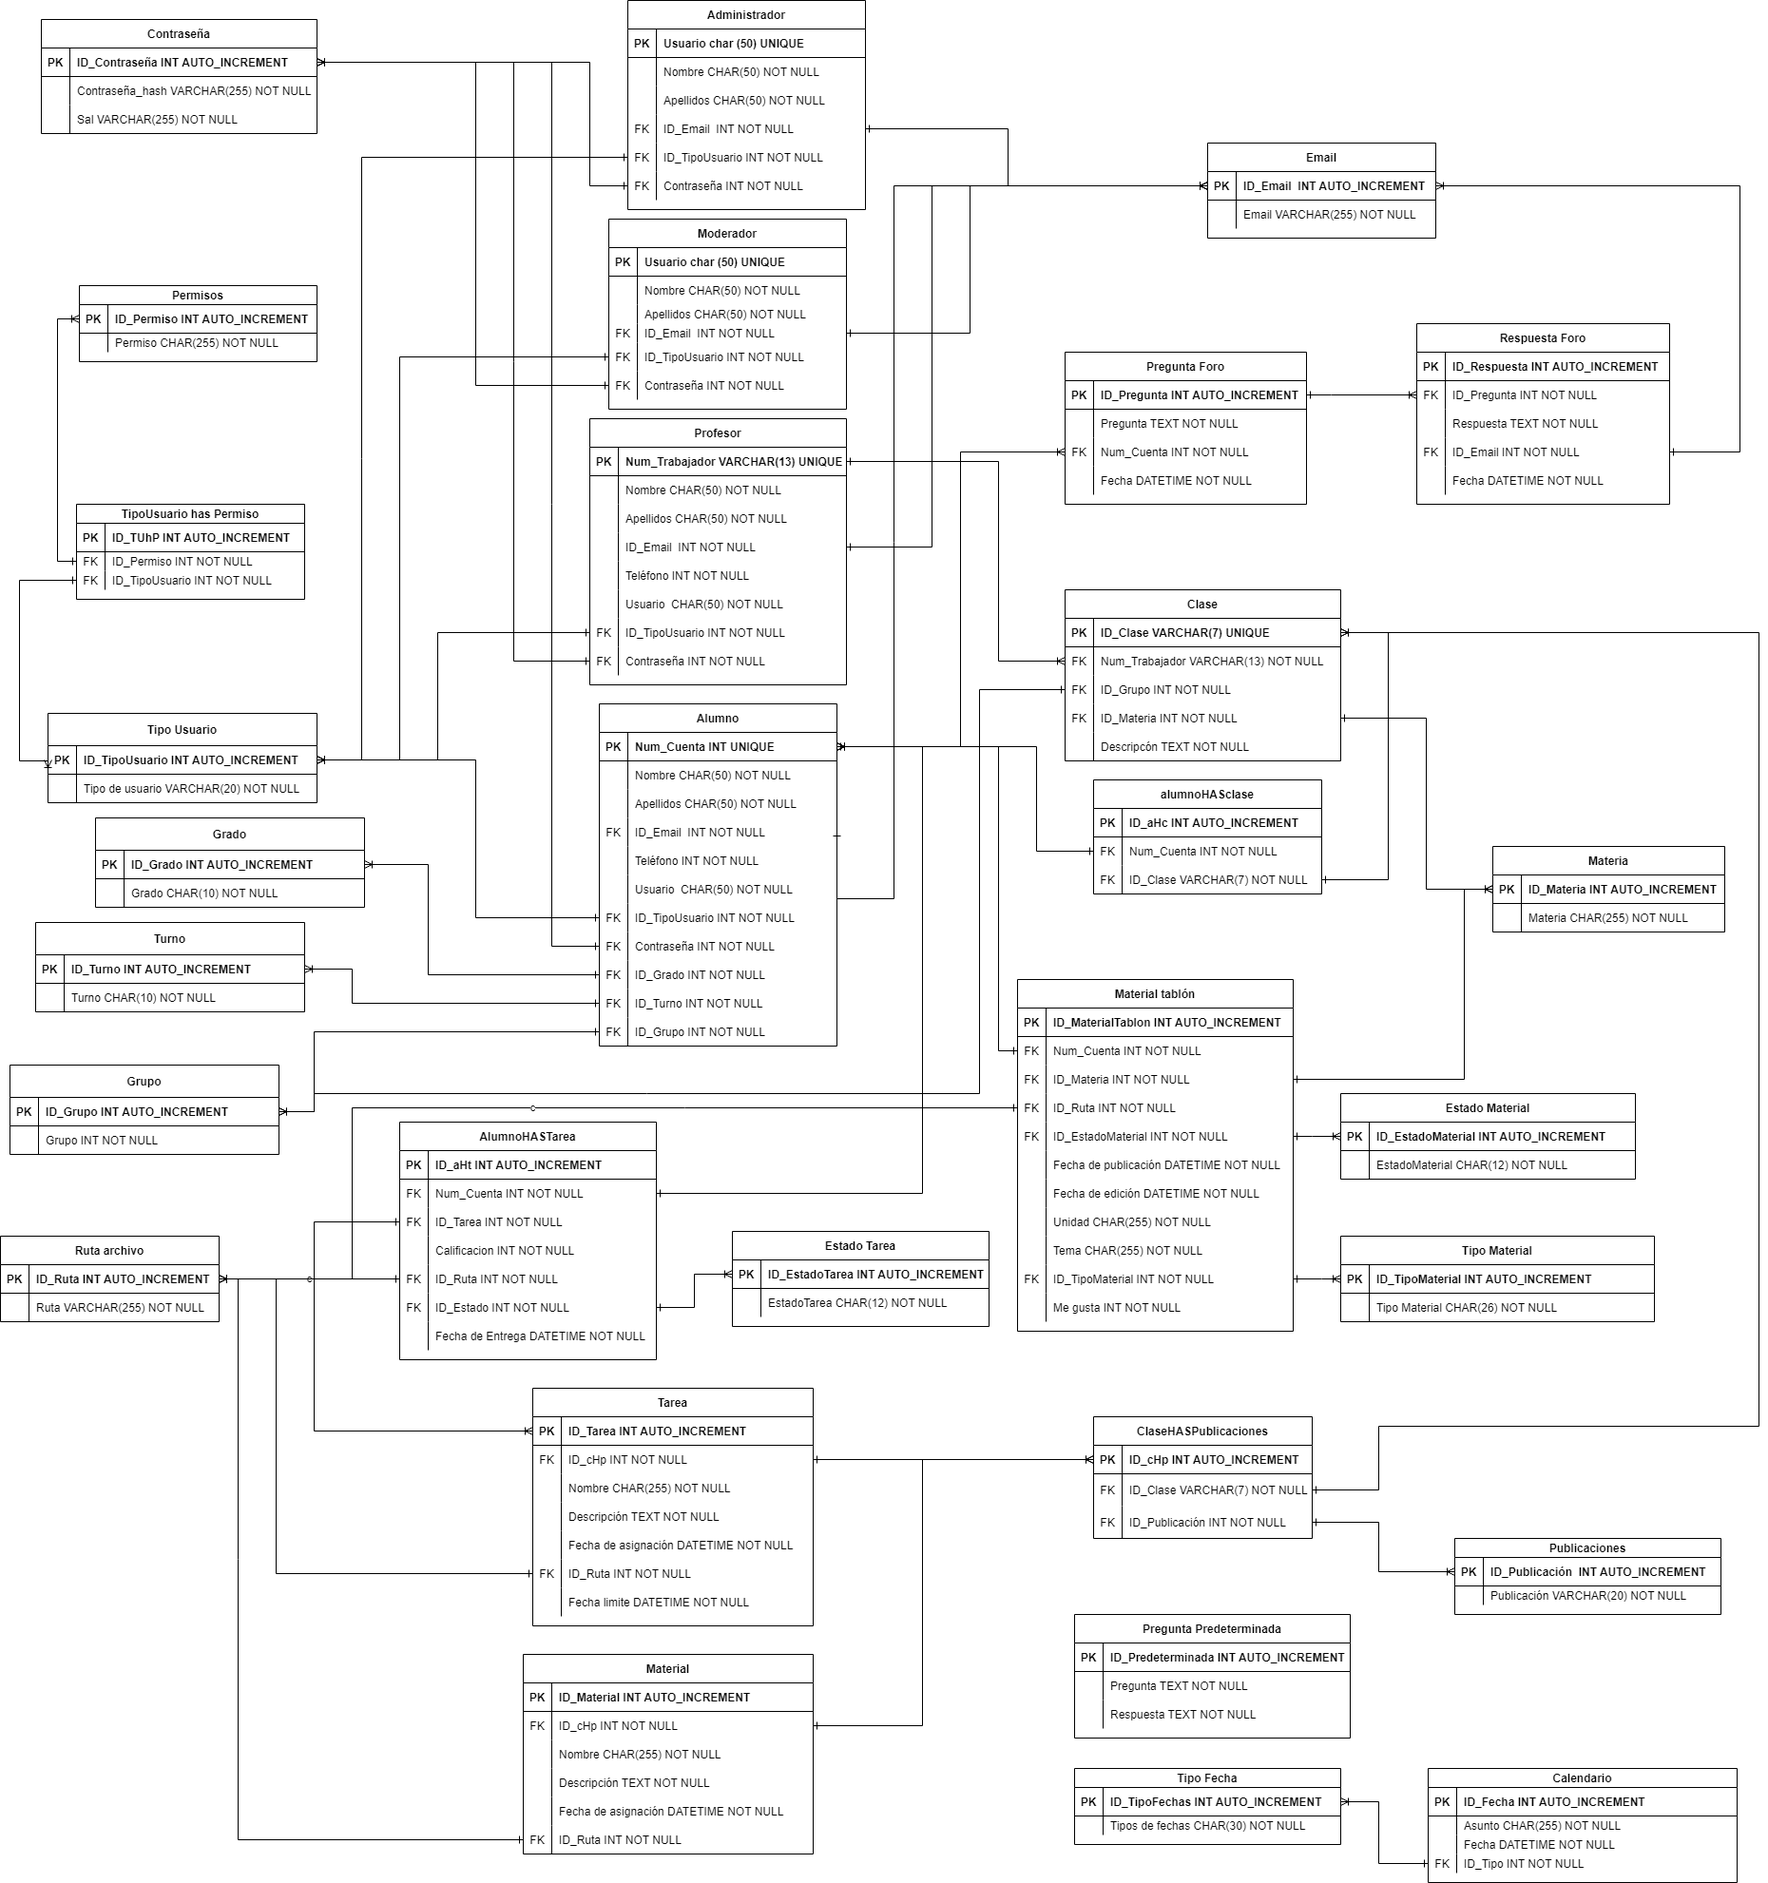
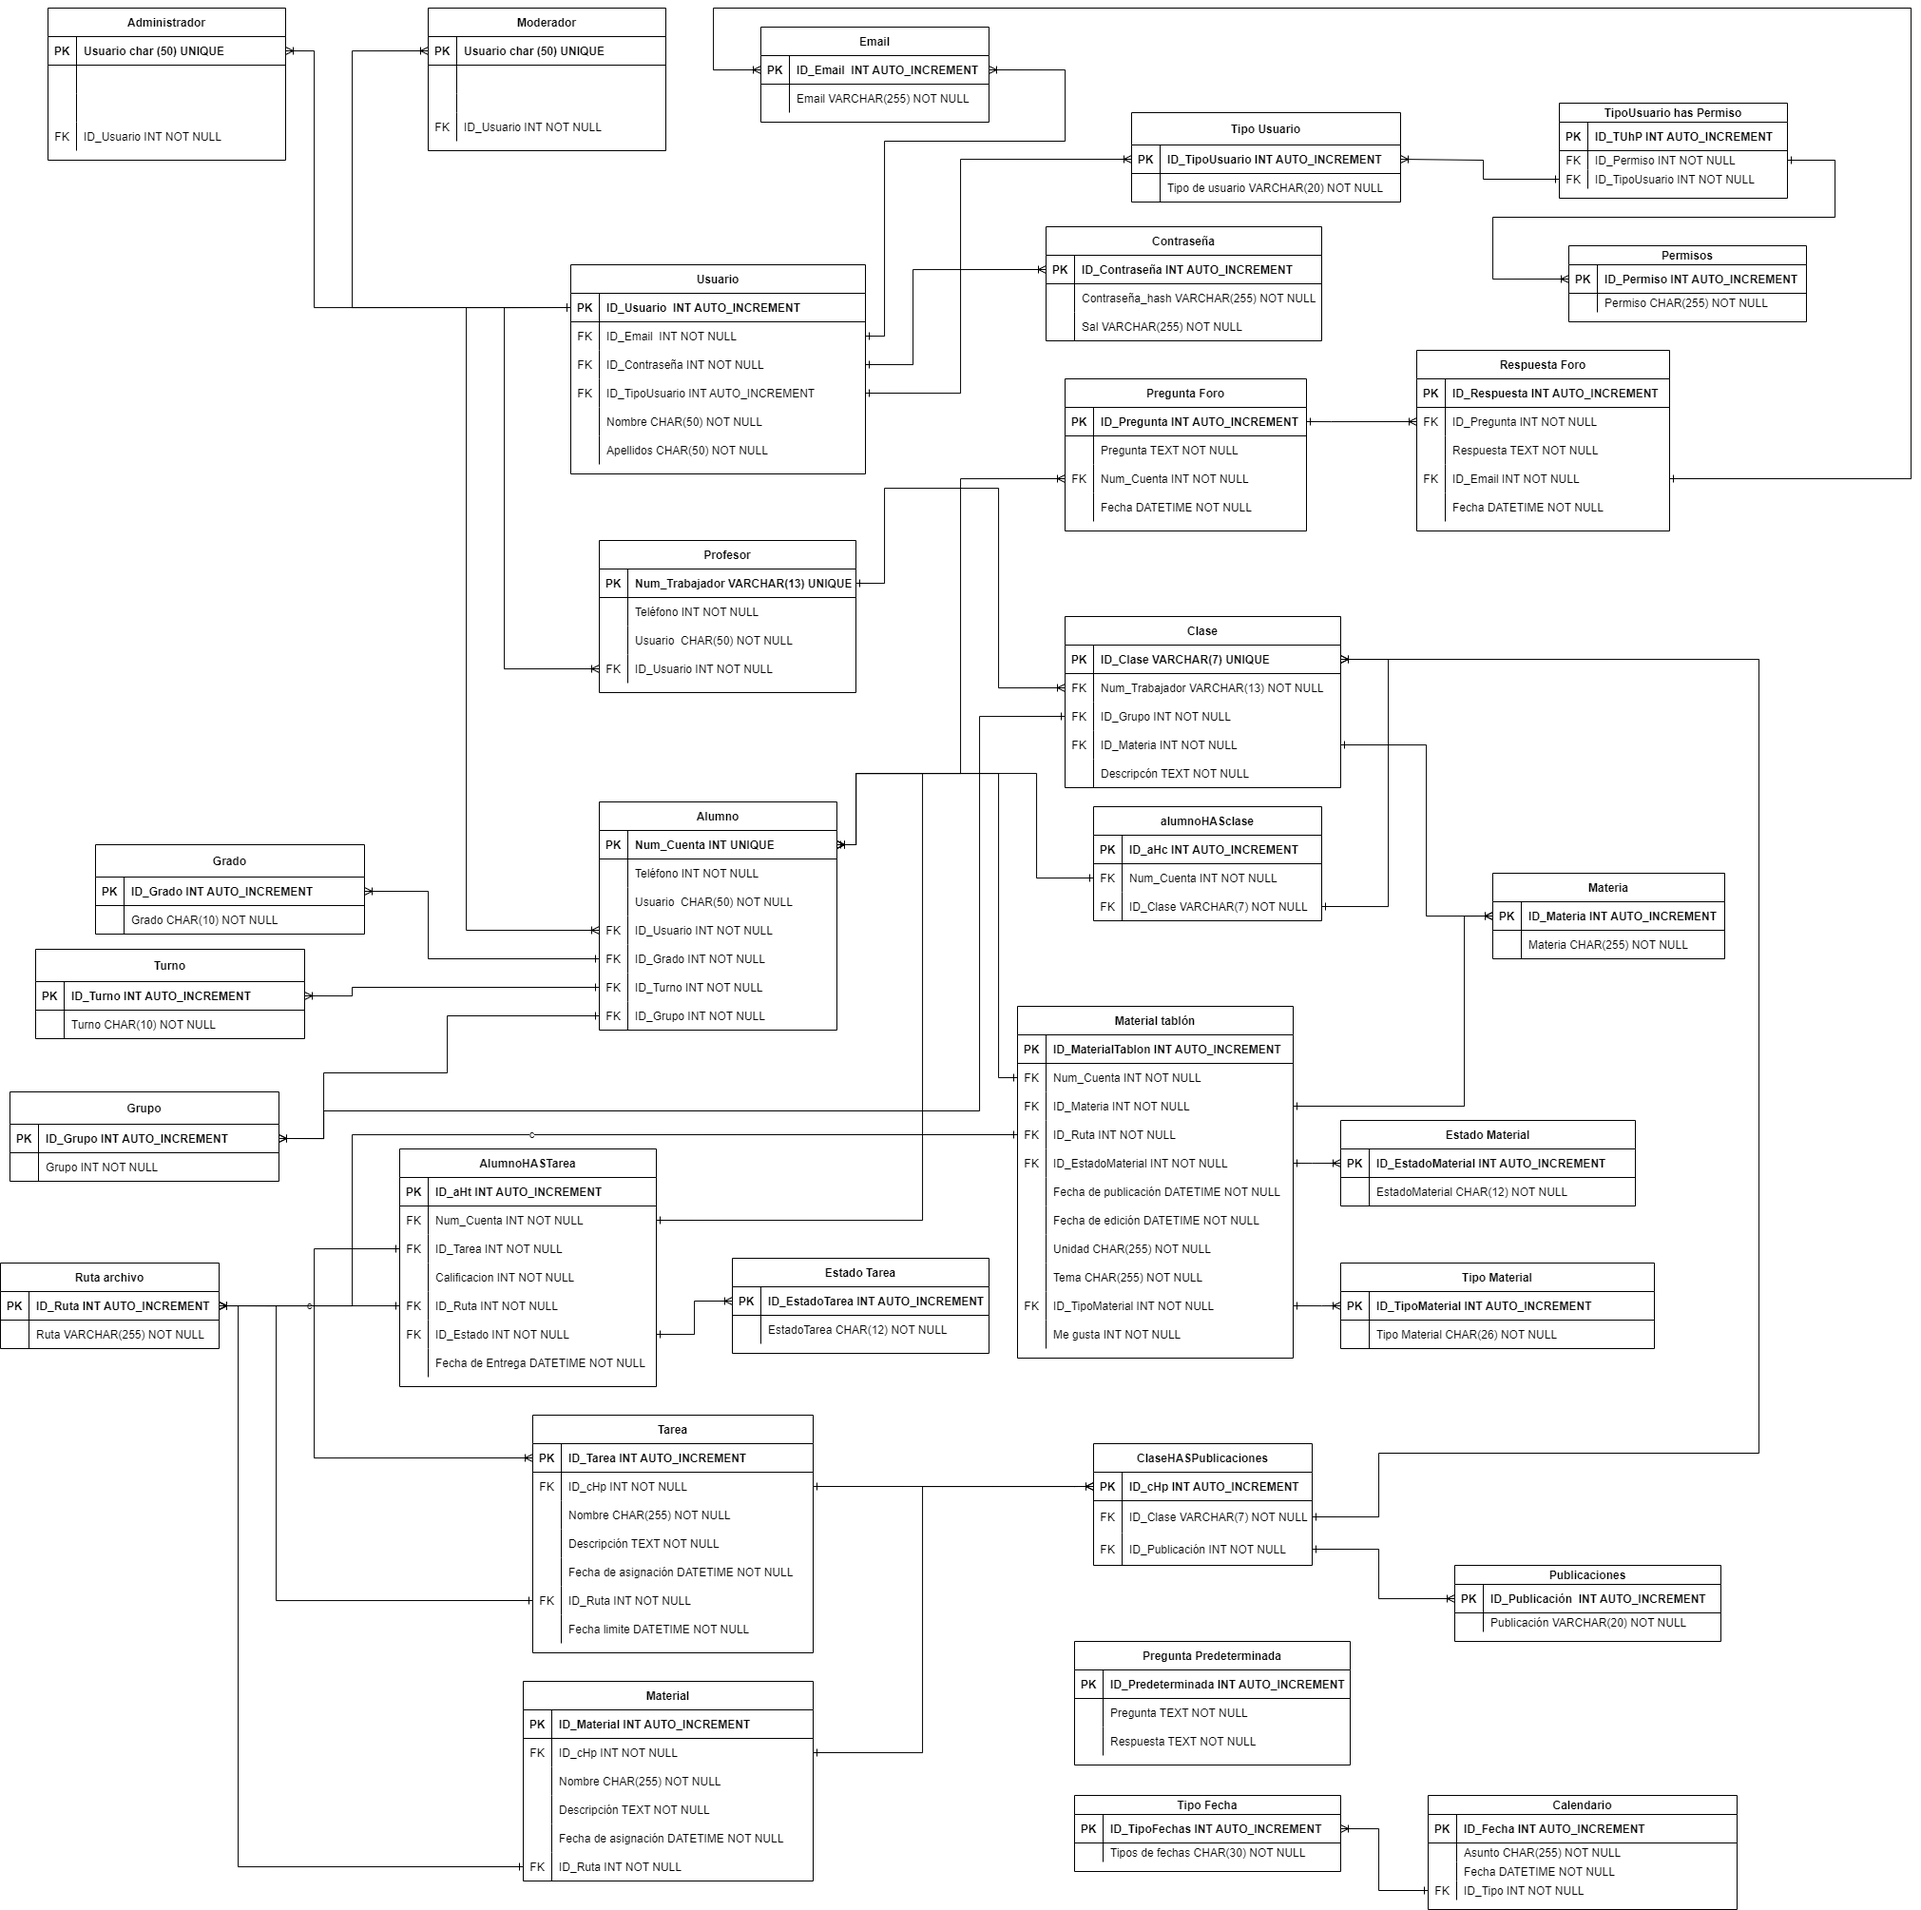
fix: Cambiando base de datos

diff --git a/FormularioInicioSesion.html b/FormularioInicioSesion.html
@@ -1,42 +1,44 @@
 <!DOCTYPE html>
 <html lang="en">
+
     <head>
         <meta charset="UTF-8">
         <meta http-equiv="X-UA-Compatible" content="IE=edge">
         <meta name="viewport" content="width=device-width, initial-scale=1.0">
+        <title>Inicio de Sesión</title>
         <!--stylesheets-->
-        <link rel="stylesheet" href="./statics/styles/main.css">
-        <link rel="stylesheet" href="./statics/styles/formularioInicio.css">
-        
-        <title>Formulario Inicio de Sesion</title>
+        <!-- <link rel="stylesheet" href="./statics/styles/main.css">
+        <link rel="stylesheet" href="./statics/styles/formularioInicio.css"> -->
     </head>
-    <body>
-        <header>
 
-        </header>
+    <body>
+        <header></header>
 
         <div class="contenido">
             <div class="form">
-                <form action="./dynamics/php/FormularioInicioSesion.php" method="post">
+                <form id="formInicio" method="post">
                     <fieldset>
-                       <strong><h2>¿Qué tal Coyo-amigo?</h2></strong>
+                        <strong><h2>¿Qué tal Coyo-amigo?</h2></strong>
                         <h3>Iniciar sesión</h3>
 
                         <label for="correo"></label>
-                        <input type="email" name="correo" required placeholder="Correo"> <br><br>
+                        <input type="email" name="correo" id="correo" required placeholder="Correo"> <br><br>
 
-                        <label for="contraseña"></label>
-                        <input type="text" name="contraseña" required placeholder="Contraseña"> <br><br>
+                        <label for="contrasena"></label>
+                        <input type="text" name="contrasena" id="contrasena" required placeholder="Contraseña"> <br><br>
 
-                        <a href="http://localhost/ProyectoSemana1/IntentoContrase%C3%B1a.php">¿Olvidaste tu contraseña o nombre de usuario?</a> <br><br>
-                        <button type="submit">Continuar</button>
+                        <a href="./dynamics/php/IntentoContraseña.php">¿Olvidaste tu contraseña o nombre de usuario?</a> <br><br>
+                        
+                        <button type="submit" id="btn-inicio">Iniciar sesión</button><br><br>
+
+                        <a href="./templates/FormularioRegistro.html" target="_self" style="display: none;" id="btn-registro">Registrate</a>
                     </fieldset>
                 </form>
             </div>
         </div>
 
-        <footer>
-
-        </footer>
+        <footer></footer>
+        <script src="./dynamics/JS/FormularioInicioSesion.js"></script>
     </body>
-    </html>
+
+</html>

diff --git a/dynamics/JS/FormularioInicioSesion.js b/dynamics/JS/FormularioInicioSesion.js
@@ -1,0 +1,49 @@
+window.addEventListener("load", ()=>{
+    const formInicio = document.getElementById("formInicio");
+    const btnInicio = document.getElementById("btn-inicio");
+    const btnRegistro = document.getElementById("btn-registro");
+
+    function verificaDatos(){
+        let todobien = false;
+        if(formInicio.correo.value == "" || formInicio.contrasena.value == ""){
+            alert("Porfavor llena todos los datos");
+        } else {
+            todobien = true;
+        }
+        return todobien;
+    }
+
+    function verifInicioSesion(){
+        let datosForm = new FormData(formInicio);
+        fetch("./dynamics/php/FormularioInicioSesion.php",{
+            method:"POST",
+            body:datosForm,
+        })
+            .then((response)=>{
+                return response.json();
+            })
+            .then((datosJSON)=>{
+                if(datosJSON.ok == true){
+                    if(datosJSON.texto == "Usuario no registrado"){
+                        alert(datosJSON.texto);
+                        btnRegistro.style.display = "block";
+                    }
+                    console.log("true");
+                } else if(datosJSON.ok == false){
+                    alert(datosJSON.texto);
+                }
+            });
+    }
+
+    btnInicio.addEventListener("click",(evento)=>{
+        evento.stopPropagation();
+        evento.preventDefault();
+        if(verificaDatos() == true){
+            // alert("Puede continuar");
+            verifInicioSesion();
+            evento.preventDefault();
+        } else {
+            // alert("Datos inválidos");
+        }
+    });
+});

diff --git a/templates/FormularioRegistro.html b/templates/FormularioRegistro.html
@@ -5,11 +5,11 @@
         <meta charset="UTF-8">
         <meta http-equiv="X-UA-Compatible" content="IE=edge">
         <meta name="viewport" content="width=device-width, initial-scale=1.0">
-        <link rel="icon" href="../assets/img/logo.png" type="image/icon">
+        <!-- <link rel="icon" href="../assets/img/logo.png" type="image/icon"> -->
         <!--stylesheets-->
         <!-- <link rel="stylesheet" href="../statics/styles/main.css">
         <link rel="stylesheet" href="../statics/styles/FormularioRegistro.css"> -->
-        <title>Formulario</title>
+        <title>Registro</title>
     </head>
 
     <body>
@@ -74,8 +74,13 @@
                             <input type="text" name="numTrabajador" id="numTrabajador" placeholder="Número Trabajador"><br><br>
                         </div>
 
-                        <button type="submit" id="continuar">Continuar</button>
+                        
                         <button type="reset">Restablecer</button>
+                        <button type="submit" id="continuar">Registrate</button> <br><br>
+
+                        <a href="../FormularioInicioSesion.html" target="_self">
+                            <button type="button">Regresar</button>
+                        </a><br><br>
 
                     </fieldset>
                 </form>

diff --git a/dynamics/php/FormularioInicioSesion.php b/dynamics/php/FormularioInicioSesion.php
@@ -1,26 +1,51 @@
 <?php
-    $correo = (isset($_POST["correo"]) && $_POST["correo"] != "") ?$_POST["correo"] : "no especificado";
+    $correo = (isset($_POST["correo"]) && $_POST["correo"] != "") ? $_POST["correo"] : false;
+    $contrasena = (isset($_POST["contrasena"]) && $_POST["contrasena"] != "") ? $_POST["contrasena"] : false;
 
-    $contraseña = (isset($_POST["contraseña"]) && $_POST["contraseña"] != "") ?$_POST["contraseña"] : "no especificado";
+    if(isset($_SESSION["correo"])){
+        // header("location: Pag principal");
+    } else {
+        include ("./config.php");
+        $conexion = connect();
+        if(!$conexion){
+            $respuesta = array("ok" => false, "texto" => "No se pudo ingresar");
+            echo json_encode($respuesta);
+        } else {
+            // echo "<table border=\"2\>";
+            //     echo "<thead>";
+            //         echo "<tr>";
+            //             echo "<th colspan=\"4\"><b></b></th>";
+            //         echo "</tr>";
+            //         echo "<tr>";
+            //             echo "<td colspan=\"4\"><b><center>Has iniciado sesión como:</center></b></td>";
+            //         echo "</tr>";
+            //     echo "</thead>";
+            //     echo "<body>";
+            //         echo "<tr>";
+            //             echo "<td><strong>Correo:</strong> $correo</td>";
+            //         echo "</tr>";
+            //         echo "<tr>";
+            //             echo "<td><strong>Contraseña:</strong> $contrasena</td>";
+            //         echo "</tr>";
+            //     echo "</body>";
+            // echo "</table>";
+            // echo "<br>";
 
-    echo "<table border=\"2\>";
-        echo "<thead>";
-            echo "<tr>";
-                echo "<th colspan=\"4\"><b></b></th>";
-            echo "</tr>";
-            echo "<tr>";
-                echo "<td colspan=\"4\"><b><center>Has iniciado sesión como:</center></b></td>";
-            echo "</tr>";
-        echo "</thead>";
-
-        echo "<body>";
-            echo "<tr>";
-                echo "<td><strong>Correo:</strong> $correo</td>";
-            echo "</tr>";
-            echo "<tr>";
-                echo "<td><strong>Contraseña:</strong> $contraseña</td>";
-            echo "</tr>";
-        echo "</body>";
-    echo "</table>";
-    echo "<br>";
+            $existeEmail = false;
+            $sql = "SELECT * FROM email";
+            $res = mysqli_query($conexion, $sql);
+            while($row = mysqli_fetch_assoc($res)){
+                if($row['Email'] == $correo){
+                    $existeEmail = true;
+                }
+            }
+            if($existeEmail == false){
+                $respuesta = array("ok" => true, "texto" => "Usuario no registrado");
+                echo json_encode($respuesta);
+            } else if($existeEmail == true){
+                $respuesta = array("ok" => true, "texto" => "El usuario si existe");
+                echo json_encode($respuesta);
+            }
+        }
+    }
 ?>

diff --git a/dynamics/php/FormularioRegistro.php b/dynamics/php/FormularioRegistro.php
@@ -88,16 +88,24 @@
             $res = mysqli_query($conexion, $sql);
             if($res == true){
                 $ID_Contrasena = mysqli_insert_id($conexion);
-                if($alumProf == 1){
-                    // Petición principal alumno
-                    $sql = "INSERT INTO alumno VALUES ($noCuenta,'$nombre','$apellidos',$ID_Email,$noTelef,'$usuario',$alumProf,$ID_Contrasena,$grado,$grupo,$turno)";
-                } else if($alumProf == 2) {
-                    // Petición principal maestro
-                    $sql = "INSERT INTO profesor VALUES ('$numTrabajador','$nombre','$apellidos',$ID_Email,$noTelef,'$usuario',$alumProf,$ID_Contrasena)";
-                }
+                $sql = "INSERT INTO usuario (ID_Email,ID_Contrasena,ID_TipoUsuario,Nombre,Apellidos) VALUES ($ID_Email,$ID_Contrasena,$alumProf,'$nombre','$apellidos')";
                 $res = mysqli_query($conexion, $sql);
                 if($res == true){
-                    echo "<h1>Se registro correctamente al usuario</h1>";
+                    $ID_Usuario = mysqli_insert_id($conexion);
+                    if($alumProf == 1){
+                        // Petición principal alumno
+                        $sql = "INSERT INTO alumno VALUES ($noCuenta,$noTelef,'$usuario',$grado,$grupo,$turno,$ID_Usuario)";
+                    } else if($alumProf == 2) {
+                        // Petición principal maestro
+                        $sql = "INSERT INTO profesor VALUES ('$numTrabajador',$noTelef,'$usuario',$ID_Usuario)";
+                    }
+                    $res = mysqli_query($conexion, $sql);
+                    if($res == true){
+                        echo "<h1>Se registro correctamente al usuario</h1>";
+                        header("location: ../../FormularioInicioSesion.html");
+                    } else {
+                        echo "<h1>Fallo al subir los datos</h1>";
+                    }
                 } else {
                     echo "<h1>Fallo al subir los datos</h1>";
                 }
